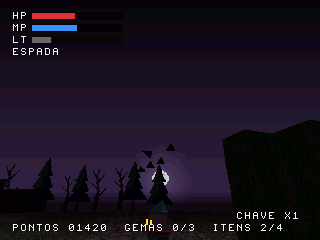
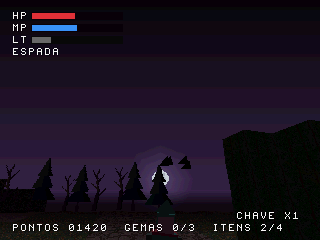
ambiente: bando visível na câmera de jogo (horizonte e rasante), vulto pálido de relance, lua fora do HUD
- Bando no céu: cruza a faixa clara do horizonte a 6-8 m (5-8 aves) ou
  passa rasante pela ponta do cone da lanterna (meio a meio; R2 alterna).
- Vulto: figura pálida com névoa a 4-5,5 m, ~2,4 m, olhos escuros, de
  frente para o jogador, ~1,2 s (preto não se lia no escuro).
- Lua escondida quando cairia sob o HUD.
- Capturas regeradas (+ 09-ceu-rasante). Bench: pior 434 / evento 450,
  30 FPS; replay-test e robo-test IGUAL.

diff --git a/src/ambient.c b/src/ambient.c
@@ -10,12 +10,14 @@
  *
  * Pilar "ver pouco, ouvir muito": os animais inquietam, não enfeitam.
  *   CÉU     degradê do alto da tela até o horizonte + lua de relance
- *   BANDO   3-8 pássaros (2 triângulos cada) cruzam a faixa de céu no alto
- *           da tela, ou LEVANTAM VOO de uma árvore quando o jogador chega
+ *   BANDO   3-8 pássaros (2 triângulos cada) cruzam a faixa clara do
+ *           horizonte a 6-8 m, ou passam RASANTES pela área da lanterna, ou
+ *           LEVANTAM VOO de uma árvore quando o jogador chega
  *           perto ou há um barulho forte (ataque, tiro). Silhuetas sem névoa.
  *   OLHOS   um par de olhos no escuro a 5-8 m; some quando a lanterna
  *           aponta (1 em 3 vezes ENCARA um instante antes de sumir)
- *   VULTO   uma silhueta preta atravessa ao longe (9-12 m), recortada no céu
+ *   VULTO   uma figura pálida (~2,4 m), meio dissolvida na névoa, atravessa
+ *           depressa a 4-5,5 m (olhos escuros)
  *   SALTO   um bicho pula de um tronco para outro, num arco
  *   GALHO   só som: um galho estala atrás do jogador
  *
@@ -57,7 +59,7 @@ static struct {
 	int      last_polys, delayed;   /* medidas (bench/overlay) */
 	/* bando */
 	struct {
-		int active, t, life, n;
+		int active, t, life, n, scale;
 		int x, y, z, vx, vy, vz;
 		int16_t ox[MAX_BIRDS], oy[MAX_BIRDS], oz[MAX_BIRDS], ph[MAX_BIRDS];
 	} fl;
@@ -129,13 +131,18 @@ static int tree_near(int x, int z, int rmin, int rmax, int *tx, int *tz, int ski
 	return tree_pick(x, z, rmin, rmax, tx, tz, skip_x, skip_z, 0);
 }
 
-static void start_flock(int from_tree, int tx, int tz) {
+enum { FLOCK_HORIZON, FLOCK_TREE, FLOCK_LOW };
+
+static void start_flock(int mode, int tx, int tz) {
 	const PLAYER *p = me();
 	const VECTOR *eye = camera_eye();
 	am.fl.active = 1;
 	am.fl.t = 0;
 	am.fl.n = rnd(3, MAX_BIRDS);
-	if (from_tree) {                              /* levanta voo: para longe do jogador */
+	int s = isin(g.cam_yaw), c = icos(g.cam_yaw), side = rnd(0, 1) ? 1 : -1;
+	int spread = 260, spread_y = 120;
+	am.fl.scale = ONE * 2;                        /* ~1,4 m de asa: corvo */
+	if (mode == FLOCK_TREE) {                     /* levanta voo: para longe do jogador */
 		int a = angle_of(tx - p->pos.vx, tz - p->pos.vz) + rnd(-300, 300);
 		am.fl.x = tx; am.fl.z = tz; am.fl.y = -900;
 		am.fl.vx = (isin(a & 4095) * 14) >> 12;
@@ -144,24 +151,43 @@ static void start_flock(int from_tree, int tx, int tz) {
 		am.fl.life = 170;
 		sound_play_at(&sfx_asas, tx, tz, VOL_AMB_ASAS);
 		sound_play_at(&sfx_corvo, tx, tz, VOL_AMB_CORVO);
-	} else {                                      /* cruza a faixa de céu no alto da tela */
-		int s = isin(g.cam_yaw), c = icos(g.cam_yaw);
-		int d = rnd(1800, 2800), side = rnd(0, 1) ? 1 : -1;
-		/* altura: um pouco acima do horizonte visto do olho (2-4 graus) */
-		int up = (d * rnd(35, 70)) / 1000;
-		am.fl.x = eye->vx + ((s * d) >> 12) - ((c * 1500 * side) >> 12);
-		am.fl.z = eye->vz + ((c * d) >> 12) + ((s * 1500 * side) >> 12);
-		am.fl.y = eye->vy - up;
-		am.fl.vx = (c * 16 * side) >> 12;
-		am.fl.vz = -(s * 16 * side) >> 12;
+	} else if (mode == FLOCK_HORIZON) {
+		/* cruza a FAIXA CLARA do horizonte (a câmera de jogo vê só ~7 graus
+		 * acima dele): a 6-8 m do olho, quase na altura dele. Um ponto h
+		 * acima do olho a d aparece ~160*h/d px acima do horizonte. */
+		int d = rnd(1500, 2000), o = rnd(-10, 2);   /* o: px acima(-)/abaixo(+) do horizonte */
+		int lat = d * 115 / 100;                     /* começa fora da tela, de lado */
+		am.fl.x = eye->vx + ((s * d) >> 12) - ((c * lat * side) >> 12);
+		am.fl.z = eye->vz + ((c * d) >> 12) + ((s * lat * side) >> 12);
+		am.fl.y = eye->vy + (o * d) / 160;
+		am.fl.vx = (c * 18 * side) >> 12;
+		am.fl.vz = -(s * 18 * side) >> 12;
 		am.fl.vy = 0;
-		am.fl.life = 200;
+		am.fl.life = 2 * lat / 18;
+		spread = 200; spread_y = 50;
+		am.fl.n = rnd(5, MAX_BIRDS);                 /* bando cheio: alguns somem atrás das copas */
 		if (rnd(0, 2) == 0) sound_play_at(&sfx_corvo, am.fl.x, am.fl.z, VOL_AMB_CORVO / 2);
+	} else {
+		/* RASANTE: 0,4-0,7 m do chão, 3,5-5 m à frente do jogador (na ponta
+		 * do cone da lanterna, sem o corpo dele na frente), atravessando
+		 * depressa: silhuetas escuras sobre o chão claro */
+		int d = rnd(900, 1250), lat = 1400;         /* além do jogador (não é tapado por ele) */
+		s = isin(p->angle); c = icos(p->angle);      /* para onde o jogador olha: a lanterna */
+		am.fl.x = p->pos.vx + ((s * d) >> 12) - ((c * lat * side) >> 12);
+		am.fl.z = p->pos.vz + ((c * d) >> 12) + ((s * lat * side) >> 12);
+		am.fl.y = -rnd(100, 180);                  /* baixo: sobre a ponta iluminada do cone */
+		am.fl.vx = (c * 26 * side) >> 12;
+		am.fl.vz = -(s * 26 * side) >> 12;
+		am.fl.vy = 0;
+		am.fl.life = 2 * lat / 26;
+		spread = 400; spread_y = 40;                 /* espalhado sobre o chão claro */
+		am.fl.scale = ONE * 5 / 2;
+		sound_play_at(&sfx_asas, p->pos.vx + ((s * d) >> 12), p->pos.vz + ((c * d) >> 12), VOL_AMB_ASAS / 2);
 	}
 	for (int i = 0; i < am.fl.n; i++) {
-		am.fl.ox[i] = (int16_t)rnd(-260, 260);
-		am.fl.oy[i] = (int16_t)rnd(-120, 120);
-		am.fl.oz[i] = (int16_t)rnd(-260, 260);
+		am.fl.ox[i] = (int16_t)rnd(-spread, spread);
+		am.fl.oy[i] = (int16_t)rnd(-spread_y, spread_y);
+		am.fl.oz[i] = (int16_t)rnd(-spread, spread);
 		am.fl.ph[i] = (int16_t)rnd(0, 15);
 	}
 }
@@ -192,11 +218,11 @@ static int start_eyes(void) {
 
 static int start_shadow(void) {
 	int x, z;
-	ahead(rnd(2400, 3000), 200, &x, &z);       /* além do chão visível: recorta no céu */
+	ahead(rnd(1100, 1400), 200, &x, &z);       /* 4-5,5 m do jogador: a névoa dissolve pela metade */
 	int s = isin(g.cam_yaw), c = icos(g.cam_yaw), side = rnd(0, 1) ? 1 : -1;
-	am.sh.active = 1; am.sh.t = 0; am.sh.life = 110;
-	am.sh.vx = (c * 22 * side) >> 12;             /* atravessa de lado */
-	am.sh.vz = -(s * 22 * side) >> 12;
+	am.sh.active = 1; am.sh.t = 0; am.sh.life = 72;    /* ~1,2 s em cena */
+	am.sh.vx = (c * 30 * side) >> 12;             /* atravessa de lado, depressa */
+	am.sh.vz = -(s * 30 * side) >> 12;
 	am.sh.x = x - am.sh.vx * am.sh.life / 2;
 	am.sh.z = z - am.sh.vz * am.sh.life / 2;
 	sound_play_at(&sfx_folhas, x, z, VOL_AMB_FOLHAS);
@@ -228,13 +254,13 @@ static int try_start(int k) {
 	switch (k) {
 	case AM_FLOCK_SKY:
 		if (am.fl.active) return 0;
-		start_flock(0, 0, 0);
+		start_flock(rnd(0, 1) ? FLOCK_HORIZON : FLOCK_LOW, 0, 0);   /* meio a meio */
 		return 1;
 	case AM_FLOCK_TREE: {
 		int tx, tz;
 		if (am.fl.active) return 0;
 		if (!tree_near(me()->pos.vx, me()->pos.vz, 0, 1400, &tx, &tz, -1, -1)) return 0;
-		start_flock(1, tx, tz);
+		start_flock(FLOCK_TREE, tx, tz);
 		return 1;
 	}
 	case AM_EYES:   return !am.ey.active && start_eyes();
@@ -328,8 +354,12 @@ void ambient_draw_sky(void) {
 	/* lua: um pouco acima do horizonte, numa direção fixa por mapa */
 	int az = am.moon_front ? g.cam_yaw : am.moon_az;
 	int sx, sy;
-	if (h > 0 && render_project_dir(isin(az), -260, icos(az), &sx, &sy))
-		render_moon(&tex_lua_t, sx, sy, 18);
+	if (h > 0 && render_project_dir(isin(az), -260, icos(az), &sx, &sy)) {
+		/* nunca por baixo do HUD (barras no alto: esquerda, e direita com 2 jogadores) */
+		int under_hud = sy < 64 && (sx < 150 || (g.num_players > 1 && sx > 170));
+		if (!under_hud)
+			render_moon(&tex_lua_t, sx, sy, 18);
+	}
 	prof_end(PROF_AMBIENT);
 }
 
@@ -346,7 +376,7 @@ void ambient_draw(void) {
 		for (int i = 0; i < am.fl.n; i++) {
 			int flap = ((am.fl.t + am.fl.ph[i]) >> 2) & 1;      /* bate as asas */
 			VECTOR pos = { am.fl.x + am.fl.ox[i], am.fl.y + am.fl.oy[i] + (flap ? 6 : -6), am.fl.z + am.fl.oz[i] };
-			render_mesh(flap ? &passaro_a_mesh : &passaro_b_mesh, &pos, &rot, ONE * 2, &sil);   /* ~1,4 m de asa: corvo */
+			render_mesh(flap ? &passaro_a_mesh : &passaro_b_mesh, &pos, &rot, am.fl.scale, &sil);
 		}
 	}
 	if (am.ey.active && ((am.ey.t / 6) % 16) != 15) {          /* pisca de vez em quando */
@@ -358,9 +388,17 @@ void ambient_draw(void) {
 		render_mesh(&olhos_mesh, &pos, &rot, ONE * 3, &eo);        /* algo grande */
 	}
 	if (am.sh.active) {
-		SVECTOR rot = { 0, angle_of(am.sh.vx, am.sh.vz) + 2048, 0 };
+		const PLAYER *pl = me();                /* desliza de lado, OLHANDO para o jogador */
+		SVECTOR rot = { 0, angle_of(pl->pos.vx - am.sh.x, pl->pos.vz - am.sh.z), 0 };
 		VECTOR pos = { am.sh.x, 0, am.sh.z };
-		render_mesh(&vulto_mesh, &pos, &rot, ONE, &sil);          /* silhueta preta, sem névoa */
+		/* PÁLIDO e com névoa: no escuro, preto não se lê; uma figura clara
+		 * meio dissolvida na névoa, de olhos escuros, é notada de relance */
+		static const CVECTOR vpal[2] = { { 150, 150, 165 }, { 10, 6, 6 } };
+		DRAWOPT vo = { 0 };
+		vo.flags = DRAW_UNLIT | DRAW_NOCULL;
+		vo.palette = vpal;
+		vo.npalette = 2;
+		render_mesh(&vulto_mesh, &pos, &rot, ONE * 13 / 10, &vo);  /* ~2,4 m */
 	}
 	if (am.jp.active) {
 		int t = am.jp.t, L = am.jp.life;
@@ -406,7 +444,14 @@ void ambient_debug(int what) {
 	case 3: am.jp.active = 0; try_start(AM_JUMP); break;
 	case 4: try_start(AM_BRANCH); break;
 	case 5: am.moon_front = S(10); break;
-	case 6: am.fl.active = 0; try_start(AM_FLOCK_SKY); break;
+	case 6: {                                   /* R2: alterna horizonte / rasante */
+		static int alt;
+		am.fl.active = 0;
+		start_flock((alt ^= 1) ? FLOCK_HORIZON : FLOCK_LOW, 0, 0);
+		break;
+	}
+	case 8: am.fl.active = 0; start_flock(FLOCK_HORIZON, 0, 0); break;   /* capturas */
+	case 9: am.fl.active = 0; start_flock(FLOCK_LOW, 0, 0); break;
 	case 7: am.moon_front = 0; break;
 	}
 }

diff --git a/models/vulto.h b/models/vulto.h
@@ -1,11 +1,11 @@
 /* Gerado por tools/blender_export_psx.py a partir de: tools/make_default_assets.py
- * 46 vertices, 12 faces. Nao edite a mao: exporte de novo.
+ * 54 vertices, 14 faces. Nao edite a mao: exporte de novo.
  */
 #ifndef VULTO_MESH_H
 #define VULTO_MESH_H
 #include "mesh.h"
 
-static const SVECTOR vulto_verts[46] = {
+static const SVECTOR vulto_verts[54] = {
 	{ 41, 0, 26, 0 },
 	{ -41, 0, 26, 0 },
 	{ -41, -397, 26, 0 },
@@ -52,6 +52,14 @@ static const SVECTOR vulto_verts[46] = {
 	{ -41, -384, 0, 0 },
 	{ -61, -192, 0, 0 },
 	{ -77, -205, 0, 0 },
+	{ 19, -440, 32, 0 },
+	{ 6, -440, 32, 0 },
+	{ 6, -451, 32, 0 },
+	{ 19, -451, 32, 0 },
+	{ -6, -440, 32, 0 },
+	{ -19, -440, 32, 0 },
+	{ -19, -451, 32, 0 },
+	{ -6, -451, 32, 0 },
 };
 
 static const SVECTOR vulto_norms[5] = {
@@ -62,7 +70,7 @@ static const SVECTOR vulto_norms[5] = {
 	{ 0, -4096, 0, 0 },
 };
 
-static const MESH_FACE vulto_faces[12] = {
+static const MESH_FACE vulto_faces[14] = {
 	/* { v0,v1,v2,v3 }, r,g,b, flags, material, 0, { u0,v0,u1,v1,u2,v2,u3,v3 }, normal */
 	{ { 0, 3, 1, 2 }, 12, 12, 14, 0x01, 0, 0, { 0, 0, 0, 0, 0, 0, 0, 0 }, 0 },
 	{ { 4, 7, 5, 6 }, 12, 12, 14, 0x01, 0, 0, { 0, 0, 0, 0, 0, 0, 0, 0 }, 1 },
@@ -76,10 +84,12 @@ static const MESH_FACE vulto_faces[12] = {
 	{ { 36, 39, 37, 38 }, 12, 12, 14, 0x01, 0, 0, { 0, 0, 0, 0, 0, 0, 0, 0 }, 4 },
 	{ { 40, 42, 41, 0 }, 12, 12, 14, 0x00, 0, 0, { 0, 0, 0, 0, 0, 0, 0, 0 }, 0 },
 	{ { 43, 45, 44, 0 }, 12, 12, 14, 0x00, 0, 0, { 0, 0, 0, 0, 0, 0, 0, 0 }, 0 },
+	{ { 46, 49, 47, 48 }, 190, 40, 30, 0x05, 1, 0, { 0, 0, 0, 0, 0, 0, 0, 0 }, 0 },
+	{ { 50, 53, 51, 52 }, 190, 40, 30, 0x05, 1, 0, { 0, 0, 0, 0, 0, 0, 0, 0 }, 0 },
 };
 
 const MESH vulto_mesh = {
-	46, 12, vulto_verts, vulto_norms, vulto_faces, 476
+	54, 14, vulto_verts, vulto_norms, vulto_faces, 476
 };
 
 #endif

diff --git a/tools/make_ambient_models.py b/tools/make_ambient_models.py
@@ -9,7 +9,7 @@ Saída (nomes FIXOS: para trocar por um modelo do Blender, exporte um objeto
 com o mesmo nome na coleção PSX; o código não muda):
     models/passaro_a.h   pássaro, asas para CIMA   (2 triângulos)
     models/passaro_b.h   pássaro, asas para BAIXO  (2 triângulos)
-    models/vulto.h       silhueta alta e magra que cruza a trilha ao longe (~12 faces)
+    models/vulto.h       silhueta alta e magra com olhos fracos (~14 faces)
     models/bicho.h       bicho pequeno que salta entre troncos (~10 faces, olhos que brilham)
     models/olhos.h       par de olhos que brilham no escuro (2 quads, sem luz)
     assets/textures/lua-4bit.png   a lua, 32x32 (fundo transparente)
@@ -45,12 +45,16 @@ def make_passaro(up):
 
 
 def make_vulto():
-    """Alto e magro, ombros caídos: lê-se como 'alguém' de longe."""
-    s = Shape(["Corpo"])
+    """Alto e magro, ombros caídos: lê-se como 'alguém' de longe. Dois olhos
+    fracos (sem luz): no escuro é o que se nota de relance."""
+    s = Shape(["Corpo", "Olhos"])
     s.box(-0.16, -0.10, 0.0, 0.16, 0.10, 1.55, BLACK, 0)          # corpo (5)
     s.box(-0.11, -0.12, 1.55, 0.11, 0.08, 1.85, BLACK, 0)         # cabeça (5)
     s.poly([(-0.16, 0, 1.5), (-0.30, 0, 0.8), (-0.24, 0, 0.75)], BLACK, 0, outward=(0, -1, 0))
     s.poly([(0.16, 0, 1.5), (0.30, 0, 0.8), (0.24, 0, 0.75)], BLACK, 0, outward=(0, -1, 0))
+    for x in (-0.05, 0.05):                                        # olhos (2), sem luz
+        s.poly([(x - 0.025, -0.125, 1.72), (x + 0.025, -0.125, 1.72), (x + 0.025, -0.125, 1.76),
+                (x - 0.025, -0.125, 1.76)], (190, 40, 30), 1, outward=(0, -1, 0), unlit=True)
     return s
 
 

diff --git a/src/main.c b/src/main.c
@@ -1865,8 +1865,14 @@ static void robot_shots(void) {
 	 * no meio da animação */
 	void camera_shot_tilt(int up);
 	g.state = STATE_PLAY;
-	ambient_debug(6);                        /* bando cruzando o céu */
-	shot("09-ceu", 95);
+	ambient_debug(8);                        /* bando cruzando a faixa clara do horizonte */
+	shot("09-ceu", 100);
+	int lamp = g.players[0].lantern_on;
+	g.players[0].lantern_on = 1;             /* (a run acaba aqui) o rasante passa pela luz */
+	g.players[0].angle = g.cam_yaw;          /* lanterna para a frente da câmera */
+	ambient_debug(9);                        /* bando rasante pela área da lanterna */
+	shot("09-ceu-rasante", 54);
+	g.players[0].lantern_on = lamp;
 	camera_shot_tilt(600);                   /* horizonte no terço de baixo da tela */
 	ambient_debug(6);
 	ambient_debug(5);                        /* lua à frente */
@@ -1879,7 +1885,7 @@ static void robot_shots(void) {
 	shot("09-olhos", 20);
 	g.players[0].lantern_on = lantern;
 	ambient_debug(2);                        /* vulto: no meio da travessia */
-	shot("09-vulto", 55);
+	shot("09-vulto", 36);
 	{                                        /* o salto precisa de 2 árvores perto, à vista */
 		int ambient_shot_spot(int *px, int *pz, int *yaw);
 		int x, z, yaw;

diff --git a/docs/GUIA.md b/docs/GUIA.md
@@ -46,7 +46,7 @@ Depois de qualquer mudança: `./dev run` (compila e abre no emulador) ou
 | **Select** | liga/desliga a **lanterna** (a skin muda só na tela de seleção) |
 | **Start** | abre o **menu** (o jogo para): Mapa, Objetivo, Estatísticas, Armas, Itens |
 | **L2** (soltar) | depuração: névoa, memória do SPU, semente, polígonos, FPS, memória de primitivas, posição |
-| **L2 duas vezes** (rápido) | página **AMBIENTE** do overlay (etapa 09); outro toque fecha. Nela: **L2 + Quadrado** bando levanta voo, **+ Círculo** olhos no escuro, **+ X** vulto, **+ Triângulo** salto entre troncos, **+ R1** galho estalando, **+ L1** lua à frente da câmera, **+ R2** bando cruzando o céu |
+| **L2 duas vezes** (rápido) | página **AMBIENTE** do overlay (etapa 09); outro toque fecha. Nela: **L2 + Quadrado** bando levanta voo, **+ Círculo** olhos no escuro, **+ X** vulto, **+ Triângulo** salto entre troncos, **+ R1** galho estalando, **+ L1** lua à frente da câmera, **+ R2** bando no céu (alterna: horizonte / rasante) |
 | **L2 + Start** | (com o overlay aberto) pula para a próxima fase |
 | **L2 + direcional** | (com o overlay aberto) teleporta para os 4 pontos da fase (← início, → frente da barreira de raízes, se houver, ↑ canto mais denso, ↓ saída) |
 | **L2 + Quadrado / Círculo / X / L1 / R1 / R2** | (com o overlay aberto) dispara na hora: névoa avança / árvore cai / caminho abre (mesmo sem chave) / mata fecha atrás / onda / silêncio |
@@ -640,11 +640,11 @@ Tudo isto é **só visual e som** (`src/ambient.c`): não muda a partida.
 
 | Evento | O que se vê / ouve | Quando |
 |---|---|---|
-| Céu e lua | degradê do alto (escuro) ao horizonte (claro de luar); a lua de relance | sempre |
-| Bando no céu | 3–8 pássaros em silhueta cruzam o alto da tela | a cada 40–90 s |
+| Céu e lua | degradê do alto (escuro) ao horizonte (claro de luar); a lua de relance (nunca sob o HUD) | sempre |
+| Bando no céu | 5–8 pássaros em silhueta cruzam a faixa clara do horizonte (a 6–8 m) **ou** passam rasantes pela ponta iluminada da lanterna | a cada 40–90 s (meio a meio) |
 | Bando levanta voo | pássaros saem de uma árvore, com asas e grito | ao chegar perto de uma árvore de pouso ou depois de um barulho forte (ataque, tiro) perto |
 | Olhos | um par de olhos no escuro a 5–8 m; some com a lanterna (1 em 3 vezes encara um instante antes) | a cada 25–60 s |
-| Vulto | uma silhueta preta atravessa ao longe, recortada no céu | a cada 45–90 s |
+| Vulto | uma figura pálida e alta (~2,4 m), meio dissolvida na névoa, desliza de lado olhando para você, em ~1,2 s | a cada 45–90 s |
 | Salto | um bicho de olhos brilhantes pula de um tronco para outro | a cada 35–70 s, se houver 2 árvores perto |
 | Galho | só o som de um galho estalando atrás de você | a cada 20–50 s |
 

diff --git a/README.md b/README.md
@@ -208,7 +208,7 @@ troque para `Debug` em [`CMakePresets.json`](CMakePresets.json) (`-Og`).
 | `events-test [N] [-D N=V]` | simula os eventos da etapa 06 no PC com N sementes por fase (objetivo alcançável, ninguém preso, determinismo, cancelamentos) |
 | `mapgen-test [N] [--bench] [-D N=V]` | testa o gerador de florestas no PC com N sementes por fase (inválidos, tentativas, densidade, tempo, determinismo); `--bench` grava as piores sementes em `src/bench_seeds.h` |
 | `replay-test [--save]` | partida roteirizada (60 s por fase, eventos forçados), hash de `g` + mapa a cada 10 s comparado com `tools/replay_ref.txt`: prova que a lógica não mudou |
-| `capturas` | o robô joga 75 s da f3 e grava telas do jogo, de cada aba do menu (`08-*`) e do ambiente (`09-ceu`, `09-ceu-demo`, `09-olhos`, `09-vulto`, `09-salto`, `09-overlay-ambiente`) em `docs/capturas/` (sem abrir janela) |
+| `capturas` | o robô joga 75 s da f3 e grava telas do jogo, de cada aba do menu (`08-*`) e do ambiente (`09-ceu`, `09-ceu-rasante`, `09-ceu-demo`, `09-olhos`, `09-vulto`, `09-salto`, `09-overlay-ambiente`) em `docs/capturas/` (sem abrir janela) |
 | `robo-test [--save]` | 24 partidas do robô (2 sementes × 4 fases × 3 personagens), hash de `g` + mapa no fim de cada uma comparado com `tools/robo_ref.txt`: cobre dano, morte, itens, caixas e personagens, que o replay não cobre |
 | `bench [-D N=V ...]` | benchmark automático: compila com `DEBUG_BENCHMARK` em `build-bench/` (variantes com `-D` em `build-bench-var/`), roda no DuckStation Linux, mostra a tabela (detalhes no GUIA) |
 

diff --git a/docs/HISTORICO.md b/docs/HISTORICO.md
@@ -840,3 +840,17 @@ automatizar testes visuais.
   **Ideia para depois:** "bando alerta os inimigos" (um bando que levanta
   voo faria um barulho que atrai inimigos) — vira LÓGICA com `g.rng` e
   `noise_emit`, referências regravadas; decidido deixar só visual por ora.
+- 2026-10-11 — Etapa 09, revisão das capturas. (1) Na câmera de jogo o
+  bando não aparecia: agora cruza a FAIXA CLARA do horizonte a 6–8 m (um
+  ponto h acima do olho a d fica ~160·h/d px acima do horizonte; sorteio de
+  -10 a +2 px) com 5–8 pássaros, ou passa RASANTE (0,4–0,7 m, 3,5–5 m à
+  frente, na ponta do cone da lanterna: mais perto o corpo do jogador o
+  tapava; espalhado ~1,6 m, 2,5x). Medido nas capturas: aves na tela onde
+  previsto. (2) O vulto preto não se lia no escuro (preto sobre troncos
+  pretos, 43 px no centro da tela): virou figura PÁLIDA sem luz própria,
+  com névoa, a 4–5,5 m do jogador, ~2,4 m, olhos escuros, de frente para o
+  jogador (de perfil parecia um poste), ~1,2 s em cena. (3) Lua nunca sob
+  o HUD (escondida no alto à esquerda; e à direita com 2 jogadores).
+  Bench: pior quadro f1 420/432, f2 434/450, f3 384/402, f4 406/400
+  (normal/evento), 30 FPS; ambiente 14–18 linhas, 27–39 polígonos.
+  `replay-test` e `robo-test` IGUAL. Capturas novas: `09-ceu-rasante.png`.
